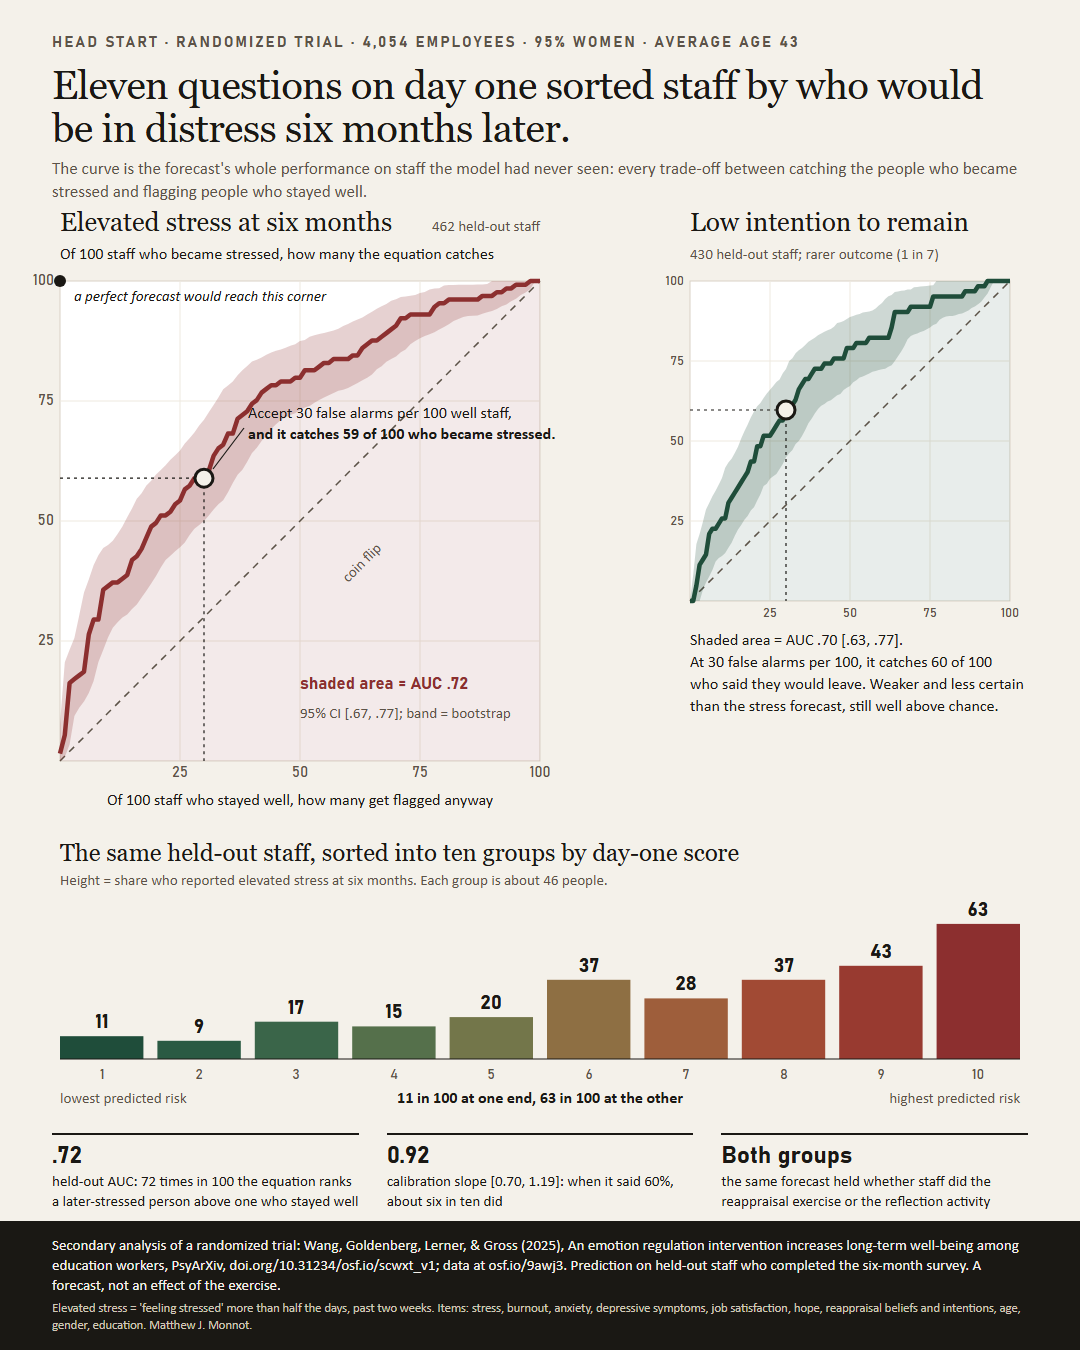
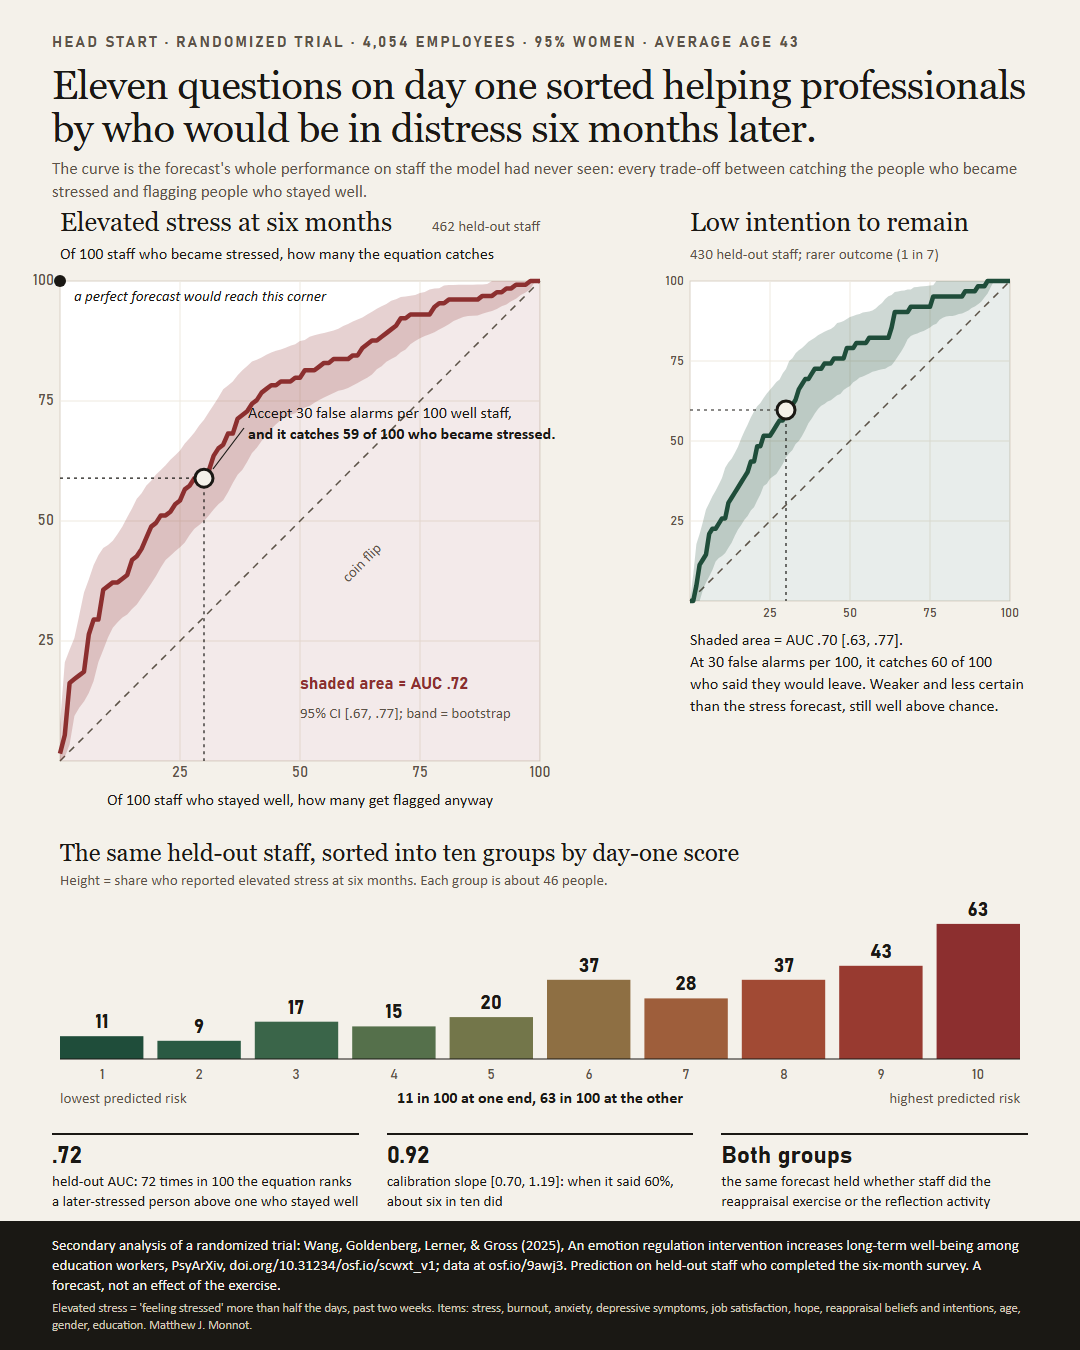
Title: helping professionals; refreshed cover

Changed region(s): [[0.0611, 0.0311, 0.9472, 0.1244]]

diff --git a/index.html b/index.html
@@ -129,11 +129,11 @@
   <div class="wrap">
     <p class="kicker">Head Start &middot; secondary analysis &middot; held-out test <em>n</em> = 462 (stress)</p>
 
-    <h1>Eleven questions on day one sorted staff by who would be in distress six months later.</h1>
+    <h1>Eleven questions on day one sorted helping professionals by who would be in distress six months later.</h1>
     <p class="lede">On day one, eleven intake questions sorted 4,054 Head Start employees by who would report elevated stress six months later. In the lowest-risk tenth, 11 in 100 did; in the highest-risk tenth, 63 in 100 did, with the gradient running in order across all ten groups. The numbers come from a strict secondary analysis of a public randomized trial: the model was fixed before the held-out partition was scored once.</p>
 
     <figure>
-      <img src="linkedin/stress-turnover-headstart-linkedin.png" width="1080" height="1350" alt="Infographic on cream paper. Headline: Eleven questions on day one sorted staff by who would be in distress six months later. A large ROC curve for elevated stress on 462 held-out staff: the oxblood curve rises above a dashed coin-flip diagonal, the area under it is shaded and labelled AUC .72 [.67, .77], a bootstrap band surrounds the curve, and a marked point reads Accept 30 false alarms per 100 well staff, and the equation catches 59 of 100 who became stressed. Axes read Of 100 staff who stayed well, how many get flagged anyway and Of 100 staff who became stressed, how many the equation catches. A note at the top-left corner reads a perfect forecast would reach this corner. A smaller green ROC for low intention to remain (AUC .70 [.63, .77]). Across the full width below, ten numbered bars show the same held-out staff sorted into tenths by day-one score, with the share who reported elevated stress at six months written on each bar: 11, 9, 17, 15, 20, 37, 28, 37, 43, 63. Three findings: .72 held-out AUC; calibration slope 0.92; the same forecast whether staff did the reappraisal exercise or the reflection activity. Footer: secondary analysis of a randomized trial (Wang, Goldenberg, Lerner, and Gross, 2025, PsyArXiv, doi.org/10.31234/osf.io/scwxt_v1; data at osf.io/9awj3), prediction on held-out staff who completed the six-month survey, a forecast not an effect of the exercise.">
+      <img src="linkedin/stress-turnover-headstart-linkedin.png" width="1080" height="1350" alt="Infographic on cream paper. Headline: Eleven questions on day one sorted helping professionals by who would be in distress six months later. A large ROC curve for elevated stress on 462 held-out staff: the oxblood curve rises above a dashed coin-flip diagonal, the area under it is shaded and labelled AUC .72 [.67, .77], a bootstrap band surrounds the curve, and a marked point reads Accept 30 false alarms per 100 well staff, and the equation catches 59 of 100 who became stressed. Axes read Of 100 staff who stayed well, how many get flagged anyway and Of 100 staff who became stressed, how many the equation catches. A note at the top-left corner reads a perfect forecast would reach this corner. A smaller green ROC for low intention to remain (AUC .70 [.63, .77]). Across the full width below, ten numbered bars show the same held-out staff sorted into tenths by day-one score, with the share who reported elevated stress at six months written on each bar: 11, 9, 17, 15, 20, 37, 28, 37, 43, 63. Three findings: .72 held-out AUC; calibration slope 0.92; the same forecast whether staff did the reappraisal exercise or the reflection activity. Footer: secondary analysis of a randomized trial (Wang, Goldenberg, Lerner, and Gross, 2025, PsyArXiv, doi.org/10.31234/osf.io/scwxt_v1; data at osf.io/9awj3), prediction on held-out staff who completed the six-month survey, a forecast not an effect of the exercise.">
       <figcaption>Cover chart for the LinkedIn post: discrimination, calibration, risk tenths, and intention to remain on held-out staff who completed the six-month survey.</figcaption>
     </figure>
 
